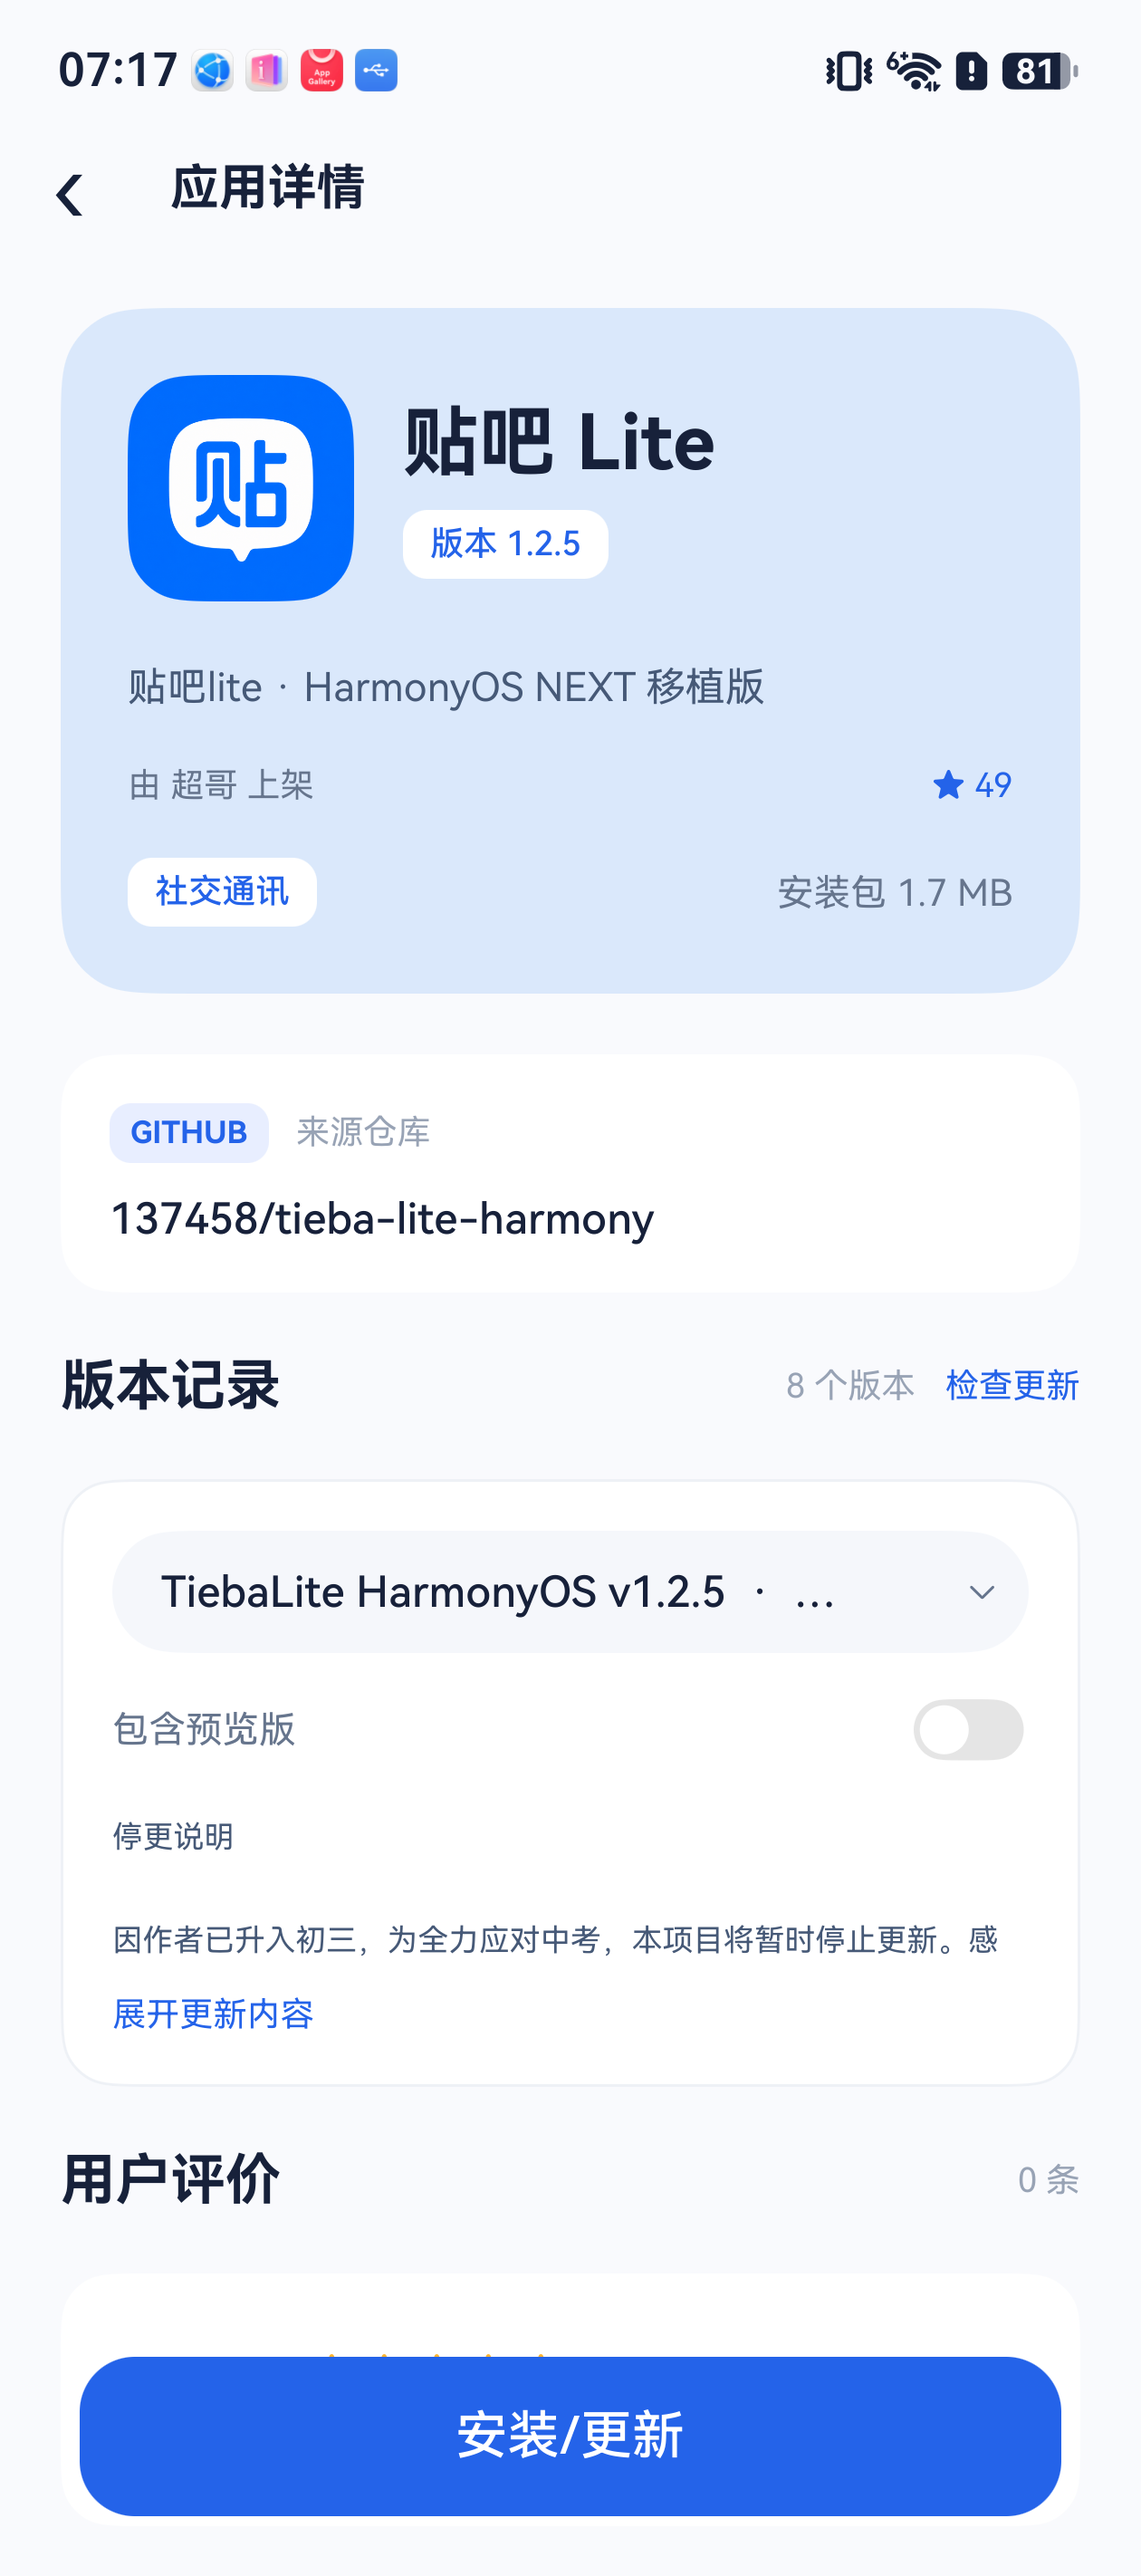
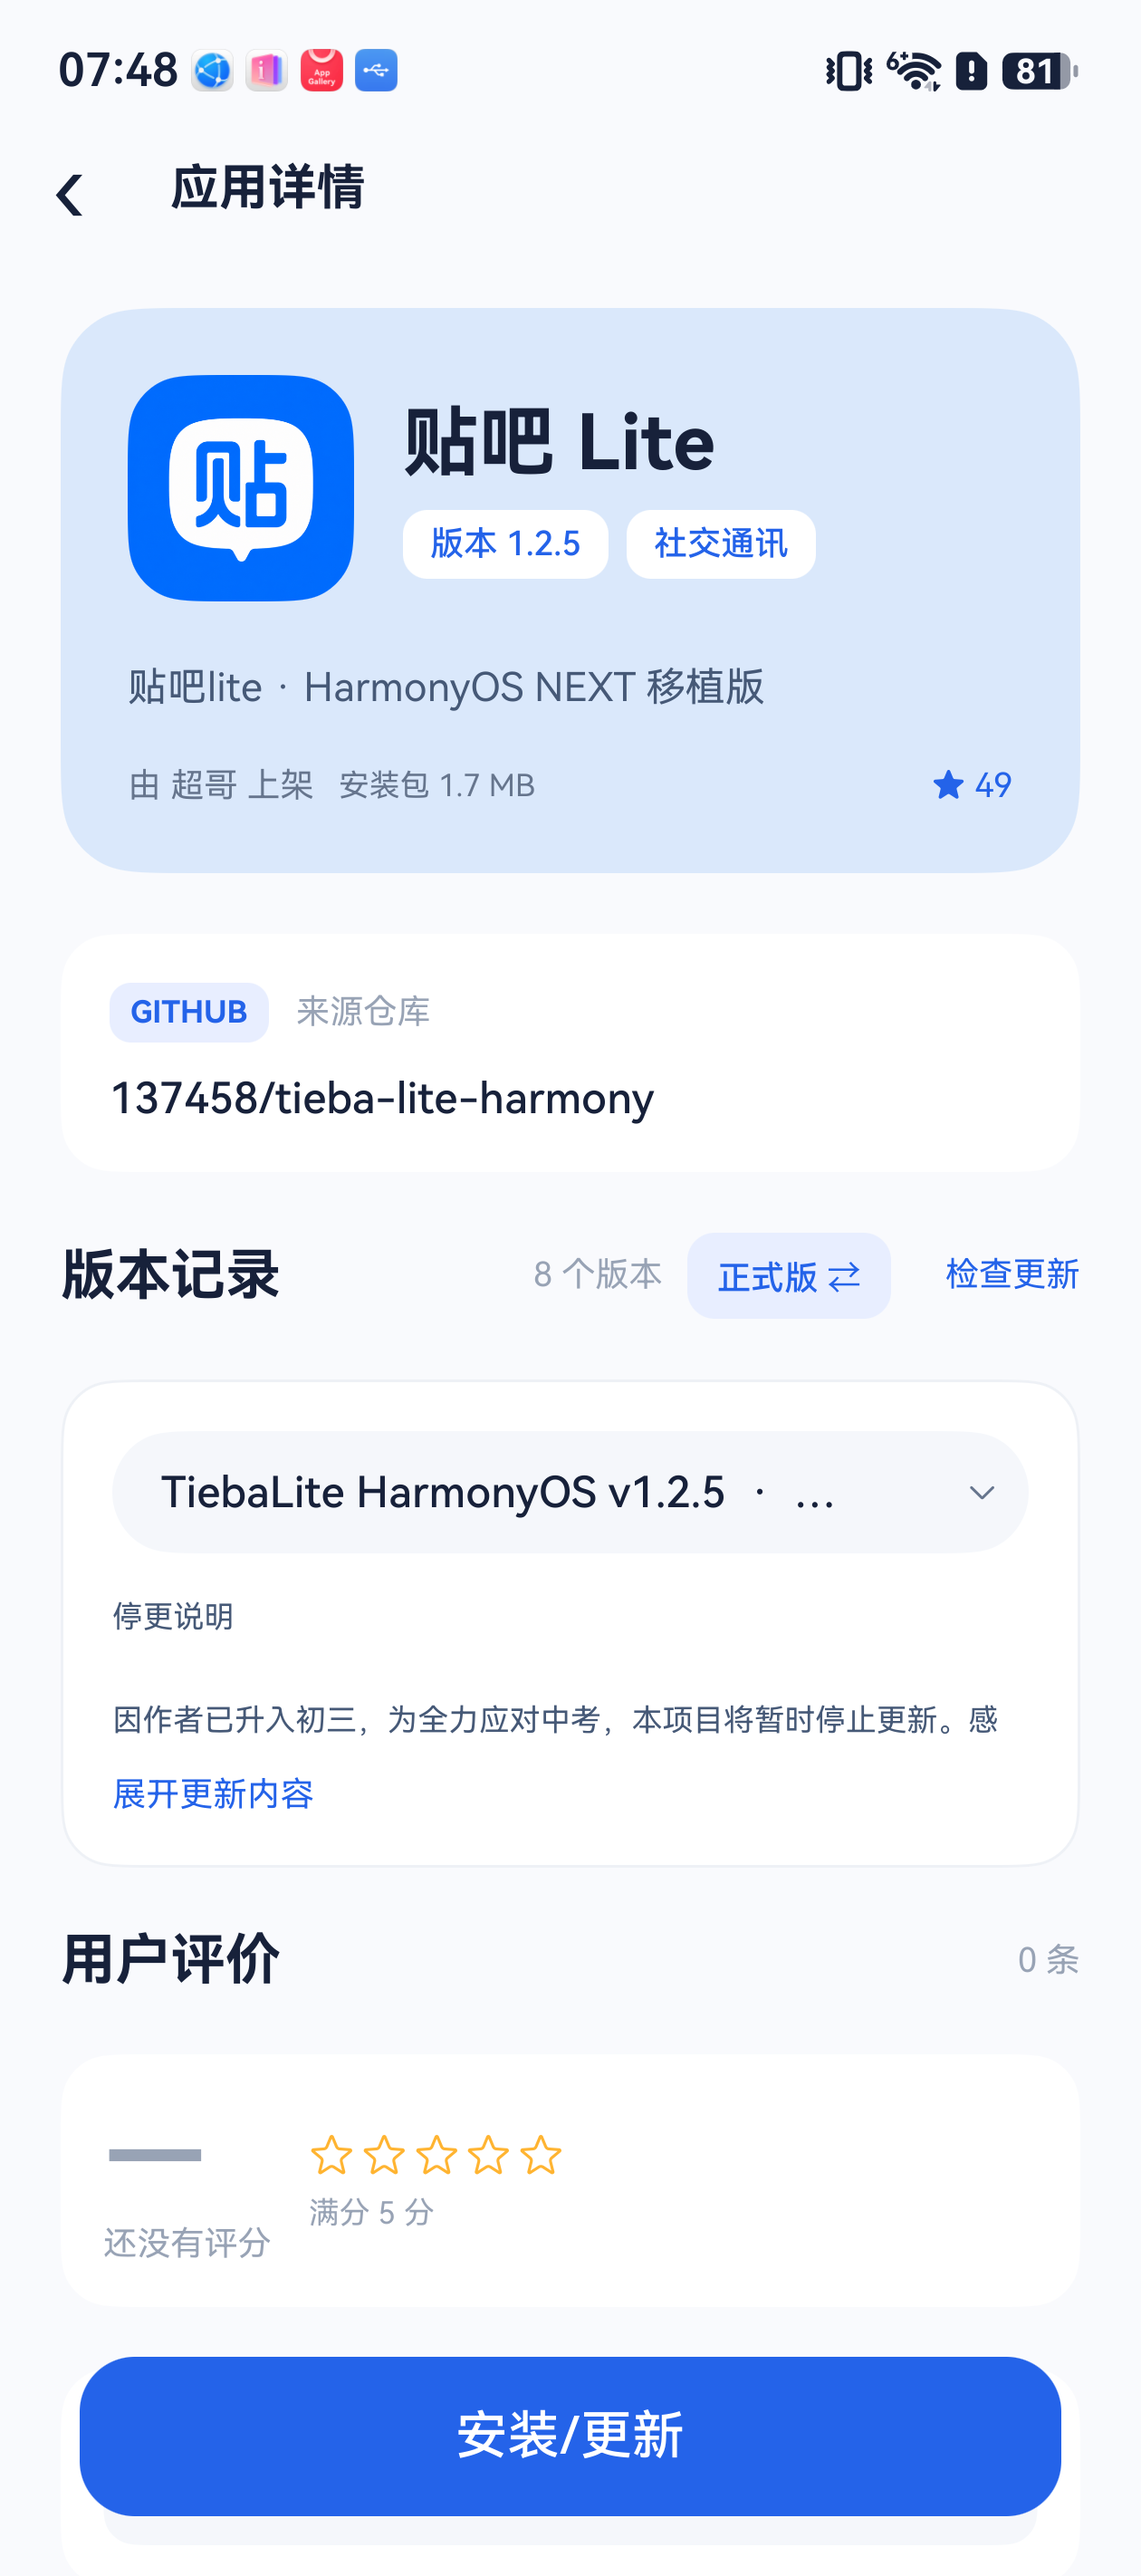
Compact details and preview local HAP before joining the install queue

diff --git a/docs/RELEASE-48-REFRESH-PROGRESS-20261001.md b/docs/RELEASE-48-REFRESH-PROGRESS-20261001.md
@@ -19,20 +19,26 @@
 
 ## 详情与连接
 
-- 应用名保持原字号，原分类标签位置显示选中版本；分类和选中 HAP 的安装包大小放在头部卡片底行。未知大小不借用其他版本数据。
-- 历史版本统一用下拉框选择，预览版用明确的「包含预览版」开关。更多历史版本入口放进下拉框，删除内容下方独立的加载行；单附件不再显示冗余的已选附件行。
+- 应用名保持原字号，名称下方并排显示版本和分类；安装包大小接在上架人后面，节省一行。未知大小不借用其他版本数据。
+- 历史版本统一用下拉框选择，在「版本记录」标题右侧用「正式版／预览版」按钮切换是否允许选择预览版。更多历史版本入口放进下拉框，删除内容下方独立的加载行；单附件不再显示冗余的已选附件行。
 - 无线调试请求由当前可见页面展示，导航间隙仍保留请求；连接后继续原任务，关闭后返回旧页面不会再出现旧弹窗。
 - 两处端口输入均居中，初次打开自动回填上次成功端口，异步回填不能覆盖正在输入的内容。
 - 系统设置入口改为标题下方的小号下划线链接，删除「可以关闭此窗口」及之后的识别说明。
 - 根据原生错误区分端口不接受连接、明确占用、信任拒绝和超时。普通超时或断流不能直接认定端口被占。
 
+## 本地 HAP 预览
+
+- 选择文件只复制到应用缓存并读取图标、包名、版本、模块和文件大小，不保存任务、不申请 Profile、不签名或安装。
+- 主按钮由「选择 HAP 文件」变为「安装」，提供次要的重新选择入口。预览可以保留到其他 tab 返回；换文件或销毁页面时清理预览文件。
+- 点击安装后再次核对缓存内容，提升为工作文件并保存任务，进入现有顺序队列；本地 HAP 不执行网络下载步骤。
+
 ## 验证与范围
 
-- 客户端 186 项测试通过，覆盖后台刷新、重复请求合并、过期结果隔离、真实进度、阶段保留、导航弹窗归属、回填竞态以及版本和大小展示。
+- 客户端 194 项测试通过，覆盖后台刷新、重复请求合并、过期结果隔离、真实进度、阶段保留、导航弹窗归属、回填竞态、版本和大小展示、本地预览不建任务、确认后入队、取消清理、文件变化拒绝及本地队列跳过网络下载。
 - Rust HDC 9 项测试通过，包含传包字节观察与路径隔离。
 - ArkTS 全量 33／33 构建任务通过，递归无签名检查通过。本产物仅一个 HAP，没有内嵌 HAP。
 - HarmonyOS 6.1 设备 `3BH0224320005595` 使用已有材料，经官方签名及 `verify-app` 后覆盖安装；公开制品仍为无签名包。
-- 实机检查发现页标题滚出和吸顶搜索；无线调试关闭时，在 Index 启动的任务进入详情后，连接窗口出现在详情层，等待任务保留。两处输入居中，成功端口回填，设置入口可打开系统无线调试页面。
+- 实机检查发现页标题滚出和吸顶搜索；无线调试关闭时，在 Index 启动的任务进入详情后，连接窗口出现在详情层，等待任务保留。两处输入居中，成功端口回填，设置入口可打开系统无线调试页面。系统文件选择器选择无签名 47 HAP 后，显示实际 0.4.47、版本代码、模块与大小，按钮变为「安装」，无自动安装。
 - 本轮未完成新的端到端签名安装及传包进度录像：设备已有账号申请目标 Profile 时返回 `cert not exist`，因此没有为页面验证删除或重新申请账号证书。相关传输逻辑通过原生测试及真实构建验证，不能据此声称整个安装流程已实机验收。
 - 实机暂停测试任务已取消清理，系统无线调试恢复开启；未卸载应用或清空账号数据。
 
@@ -41,3 +47,5 @@
 ![搜索吸顶和渐隐材质](evidence/48-refresh-20261001/sticky-search.png)
 ![任务连接弹窗显示在详情页](evidence/48-refresh-20261001/detail-reconnect.png)
 ![头部版本、分类和安装包大小](evidence/48-refresh-20261001/detail-header.png)
+
+![本地 HAP 只预览，等待点击安装](evidence/48-refresh-20261001/local-preview.png)

diff --git a/native/README.md b/native/README.md
@@ -6,7 +6,7 @@
 6.1 手机运行相同 ARM 签名库的两层签名及安装验证见 [47 验证记录](../docs/RELEASE-47-INNER-SIGNING-20260930.md)。
 同一构建码的替换包还修复当前版本显示：管理页读取系统当前版本名，在线安装保存 HAP 实际版本名，旧安装历史不再用于展示当前版本。服务端上架检查改为每个已验证账号每分钟三次并复用五分钟内的同仓库结果。验证范围和真机阻断见 [48 修复记录](../docs/RELEASE-48-VERSION-AND-SUBMIT-20260930.md)。
 2026-10-01 的 48 替换构建 `2026100101` 补齐深色导航、选择框及实时主题刷新；首次无安装状态缓存且系统查询不可用时引导识别本机应用。6.1 真机页面检查及 170 项客户端测试结果见 [深色与首轮识别验证](../docs/RELEASE-48-DARK-AND-FIRST-SCAN-20261001.md)。
-最新替换构建 `2026100102` 缩短刷新等待，增加吸顶渐隐搜索、真实下载与传包进度、简化历史版本入口，并让连接弹窗随当前页面展示。详情头部显示版本、分类和安装包大小，端口居中并回填。186 项客户端及 9 项 HDC 测试和实机范围见 [刷新与进度验证](../docs/RELEASE-48-REFRESH-PROGRESS-20261001.md)。
+最新替换构建 `2026100102` 缩短刷新等待，增加吸顶渐隐搜索、真实下载与传包进度、简化历史版本入口，并让连接弹窗随当前页面展示。详情头部并排显示版本与分类，大小接在上架人之后；标题按钮切换正式版和预览版。端口居中并回填，本地 HAP 先预览，点击安装才入队。194 项客户端及 9 项 HDC 测试和实机范围见 [刷新与进度验证](../docs/RELEASE-48-REFRESH-PROGRESS-20261001.md)。
 
 这是与现有 Flutter 客户端并存的 ArkTS/ArkUI 工程。系统 HdsTabs、商店列表/详情/历史版本、账号登录、上架、评论、已发布应用管理、可恢复下载、本地 HAP 导入、原生签名及设备安装已接入。签名核心和 HDC TCP 主机均以 Rust 源码静态链接进 `libhap_core.so`；HAP 中没有 Flutter、旧 Go signer 或 `libhdc_z.so`。安装任务在 RDB 中保留阶段和校验信息，签名或安装需要设备时才检查无线调试，并可在端口变化后重新连接继续。
 

diff --git a/README.md b/README.md
@@ -16,7 +16,7 @@ Release 里的包已指向正式元数据服务，装上即可用。
 
 2026-10-01 的 48 替换包（构建码 2026100101）补齐深色导航、分类与历史版本选择菜单，以及首次识别本机侧载应用的引导。6.1 真机深浅主题切换及菜单检查通过，客户端 170 项测试通过。详见 [验证记录](docs/RELEASE-48-DARK-AND-FIRST-SCAN-20261001.md)。
 
-最新 48 替换包（构建码 2026100102）让下拉刷新不等待图标及设备扫描，加入吸顶渐隐搜索和真实下载、传包进度；连接弹窗随当前页面展示，端口居中并回填。详情头部显示版本、分类和安装包大小，历史版本与预览版入口进一步简化。186 项客户端与 9 项 HDC 测试通过，实机范围见 [验证记录](docs/RELEASE-48-REFRESH-PROGRESS-20261001.md)。
+最新 48 替换包（构建码 2026100102）让下拉刷新不等待图标及设备扫描，加入吸顶渐隐搜索和真实下载、传包进度；连接弹窗随当前页面展示，端口居中并回填。详情头部并排显示版本和分类，大小接在上架人后面；标题按钮切换正式版和预览版，本地 HAP 先预览再点击安装。194 项客户端与 9 项 HDC 测试通过，实机范围见 [验证记录](docs/RELEASE-48-REFRESH-PROGRESS-20261001.md)。
 
 0.4.47 修复轻启内嵌工作模块的授权及签名匹配，手机端两层重签和安装已通过 6.1 实机验证。已经安装同版本轻启但工作模块导入失败时，可在 47 中本地重新导入轻启 HAP 触发修复。详见 [验证记录](docs/RELEASE-47-INNER-SIGNING-20260930.md)。
 
